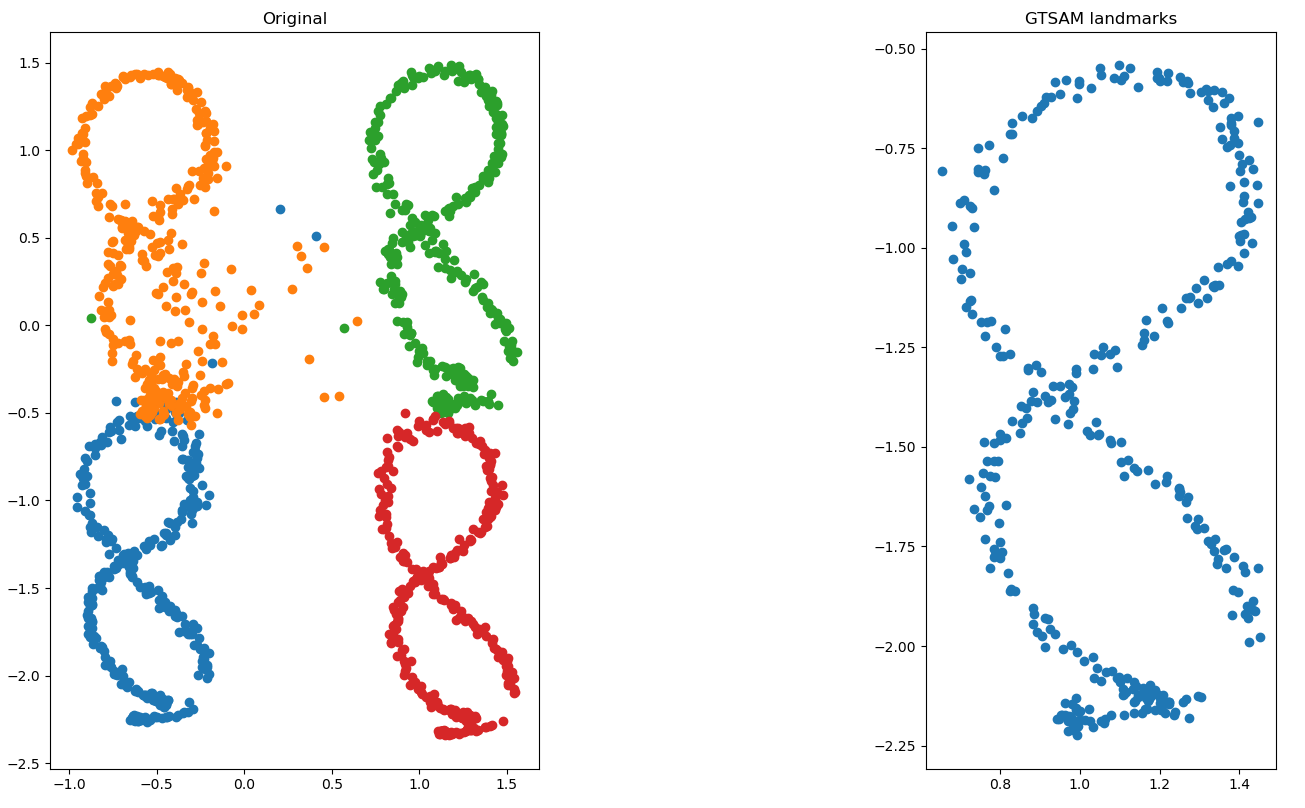
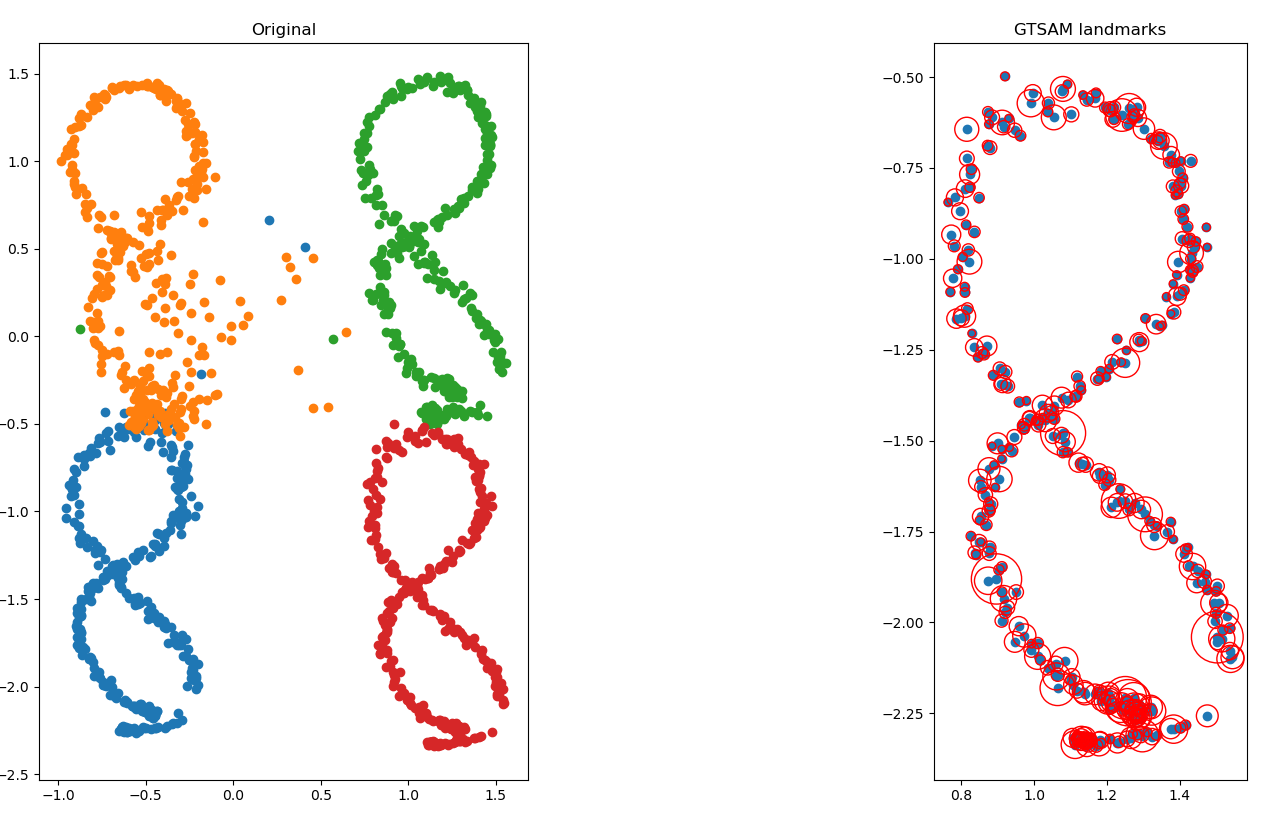
MathJax test

diff --git a/gtsam_landmark.py b/gtsam_landmark.py
@@ -22,10 +22,14 @@ def main():
     tag_sym = [gtsam.symbol('l', i) for i in range(4)]
     initial_guesses = gtsam.Values()
     for i in range(len(tag_sym)):
-        initial_guesses.insert(tag_sym[i], gtsam.Point3(0, 0, 0))
+        pos = gtsam.Point3(0, 1 if i in (1, 2) else 0, 1 if i in (2, 3) else 0)
+        initial_guesses.insert(tag_sym[i], pos)
         # Also add a large initial prior for each tag's position
-        large_prior_noise = gtsam.noiseModel.Diagonal.Sigmas(np.array([100] * 3))
-        graph.addPriorPoint3(tag_sym[i], gtsam.Point3(0, 0, 0), large_prior_noise)
+        large_prior_noise = gtsam.noiseModel.Diagonal.Sigmas(np.array([.01] * 3))
+        graph.addPriorPoint3(tag_sym[i], pos, large_prior_noise)
+
+    # First camera position is at 0,0,0
+    # graph.addPriorPose3(gtsam.symbol('x', 0), gtsam.Pose3(), gtsam.noiseModel.Diagonal.Sigmas(np.array([0] * 6)))
 
     pts = defaultdict(list)
 
@@ -40,7 +44,6 @@ def main():
         if len(detections) != 4:
             continue
 
-
         # Symbol for current camera pos
         cam_sym = gtsam.symbol('x', timestep_num)
 
@@ -53,11 +56,12 @@ def main():
 
             # Make up a noise model based on reported tag error
             # (this is a pretty bad way to do it, but it's a start)
-            err_scale = 1e3
+            err_scale = 1e4
             det_noise = gtsam.noiseModel.Diagonal.Sigmas(np.array([det.pose_err * err_scale] * 3))
             print(det.pose_err * err_scale)
             # Add BearingRangeFactor to graph
-            graph.add(gtsam.BearingRangeFactor3D(cam_sym, tag_sym[det.tag_id], gtsam.Unit3((det.pose_t / np.linalg.norm(det.pose_t)).flatten()),
+            graph.add(gtsam.BearingRangeFactor3D(cam_sym, tag_sym[det.tag_id],
+                                                 gtsam.Unit3((-det.pose_t / np.linalg.norm(det.pose_t)).flatten()),
                                                  np.linalg.norm(det.pose_t), det_noise))
 
             # draw tag detections
@@ -70,11 +74,13 @@ def main():
         cv2.waitKey(1)
         timestep_num += 1
 
-
     # Solve graph
     params = gtsam.LevenbergMarquardtParams()
     params.setVerbosityLM("SUMMARY")
     optimizer = gtsam.LevenbergMarquardtOptimizer(graph, initial_guesses, params)
+    # params = gtsam.GaussNewtonParams()
+    # params.setVerbosity("SUMMARY")
+    # optimizer = gtsam.GaussNewtonOptimizer(graph, initial_guesses, params)
     result = optimizer.optimize()
     marginals = gtsam.Marginals(graph, result)
 
@@ -99,9 +105,9 @@ def main():
     result_pts = np.array(result_pts)
     ax2.scatter(result_pts[:, 0], result_pts[:, 1])
     # error circles
-    # for i, pose in enumerate(result_pts):
-    #     confidence = np.sqrt(marginals.marginalCovariance(gtsam.symbol('x', i))[0, 0])
-    #     ax2.add_artist(plt.Circle(pose[:2], confidence, color='r', fill=False))
+    for i, pose in enumerate(result_pts):
+        confidence = np.sqrt(marginals.marginalCovariance(gtsam.symbol('x', i))[0, 0])
+        ax2.add_artist(plt.Circle(pose[:2], confidence, color='r', fill=False))
     # make axes same scale
     ax2.set_aspect('equal', adjustable='box')
 
@@ -115,7 +121,40 @@ def main():
     ax2 = fig.add_subplot(122)
     ax2.title.set_text("GTSAM landmarks")
     ax2.scatter(result_pts[:, 0], result_pts[:, 1])
+    # # error circles
+    # for i, pose in enumerate(result_pts):
+    #     confidence = np.sqrt(marginals.marginalCovariance(gtsam.symbol('x', i))[0, 0])
+    #     ax2.add_artist(plt.Circle(pose[:2], confidence, color='r', fill=False))
     ax2.set_aspect('equal', adjustable='box')
+
+    # Plot 3: compare second and third derivatives of mean pos vs. GTSAM pos
+    mean_vel = np.diff(mean_pts, axis=0)
+    gtsam_vel = np.diff(result_pts, axis=0)
+    fig = plt.figure()
+    ax = fig.add_subplot(221)
+    ax.title.set_text("mean d^2/dt^2")
+    mean_accel = np.diff(mean_vel, axis=0)
+    ax.plot(np.linalg.norm(mean_accel, axis=1))
+    ax2 = fig.add_subplot(222)
+    ax2.title.set_text("GTSAM d^2/dt^2")
+    gtsam_accel = np.diff(gtsam_vel, axis=0)
+    ax2.plot(np.linalg.norm(gtsam_accel, axis=1))
+    ax3 = fig.add_subplot(223)
+    ax3.title.set_text("mean d^3/dt^3")
+    mean_jerk = np.diff(mean_accel, axis=0)
+    ax3.plot(np.linalg.norm(mean_jerk, axis=1))
+    ax4 = fig.add_subplot(224)
+    ax4.title.set_text("GTSAM d^3/dt^3")
+    gtsam_jerk = np.diff(gtsam_accel, axis=0)
+    ax4.plot(np.linalg.norm(gtsam_jerk, axis=1))
+
+    print("mean average speed: ", np.mean(np.abs(mean_vel)))
+    print("GTSAM average speed: ", np.mean(np.abs(gtsam_vel)))
+    print("mean average absolute acceleration: ", np.mean(np.abs(mean_accel)))
+    print("GTSAM average absolute acceleration: ", np.mean(np.abs(gtsam_accel)))
+    print("mean average absolute jerk: ", np.mean(np.abs(mean_jerk)))
+    print("GTSAM average absolute jerk: ", np.mean(np.abs(gtsam_jerk)))
+
     plt.show()
 
 

diff --git a/gtsam_basic_noise.py b/gtsam_basic_noise.py
@@ -49,7 +49,7 @@ def main():
 
             # Make up a noise model based on reported tag error
             # (this is a pretty bad way to do it, but it's a start)
-            err_scale = 2e5
+            err_scale = 1e5
             det_noise = gtsam.noiseModel.Diagonal.Sigmas(np.array([det.pose_err * err_scale] * 3))
             print(det.pose_err * err_scale)
             # Add the factor

diff --git a/README.md b/README.md
@@ -50,6 +50,24 @@ composed of variables and factors.  Variables are the unknowns in the system, an
 variables.  The goal is to find the most likely values for the variables given the constraints.  The variables are
 represented by nodes in the graph, and the factors are represented by edges. 
 
+### Metric
+The metric we decided to use for testing the smoothing power of our algorithms is the average absolute acceleration.  We
+chose this metric because it's simple to compute, and makes sense; noisy, jittery positional data will end up
+corresponding to a high acceleration, while smooth positional data will correspond to a low acceleration.  We compute
+it as follows:
+
+```math
+\[
+\Bar{v}=|\frac{1}{n}\sum_{i=1}^{n} x_i - x_{i-1}|
+\]
+```
+
+```math
+\[
+\Bar{a}=|\frac{1}{n}\sum_{i=1}^{n} v_i - v_{i-1}|
+\]
+```
+
 ## Approach, Implementation, and Results
 
 ### Implementation
